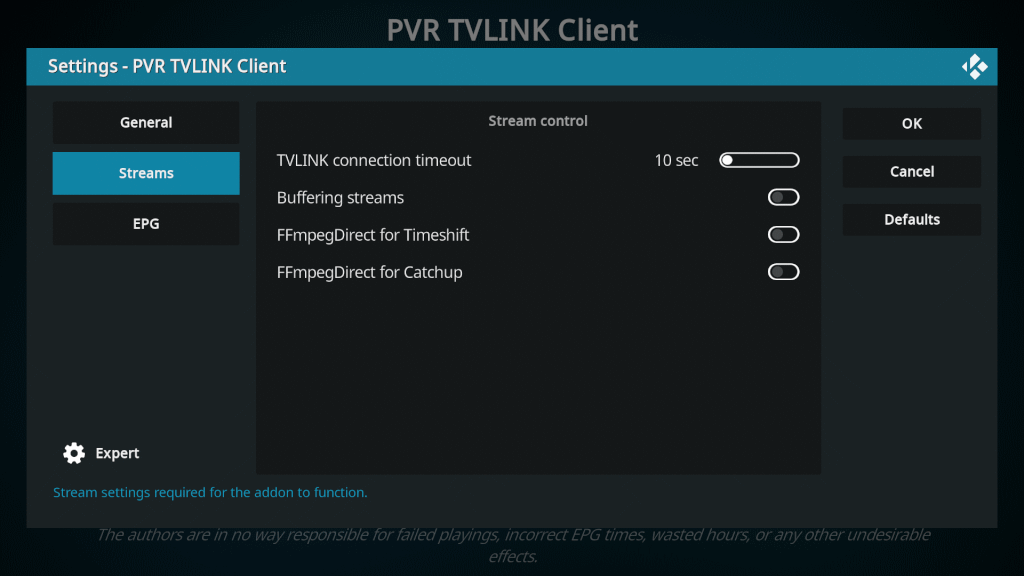
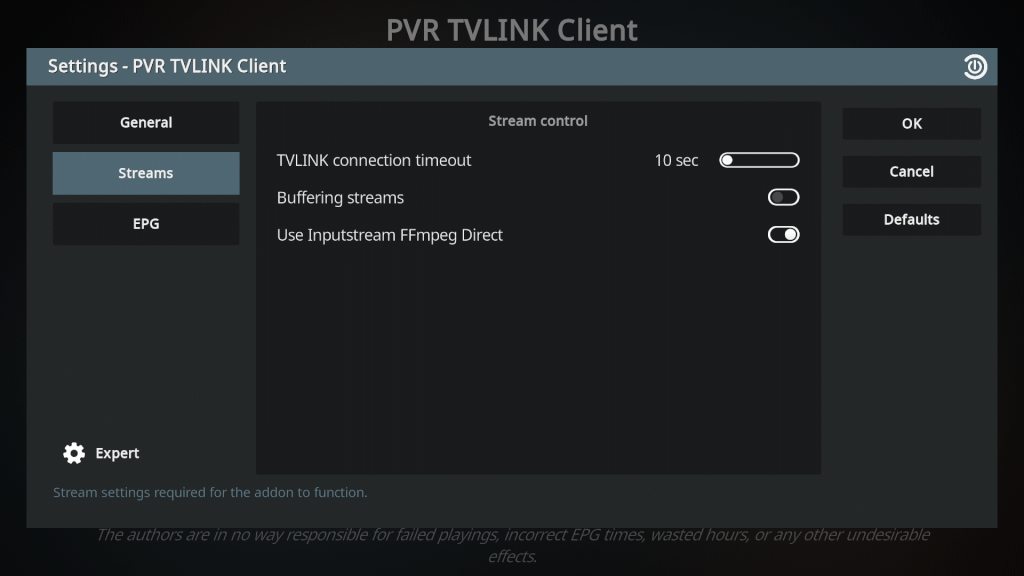
tvlink/docs/pvr-tvlink-client.md: update

diff --git a/content.uk/docs/tvlink/docs/pvr-tvlink-client.md b/content.uk/docs/tvlink/docs/pvr-tvlink-client.md
@@ -36,8 +36,6 @@ weight: 20
 + «TVLINK profile» – профіль користувача на сервері «TVLINK». Якщо не вказано, використовується основний профіль (main).
 + «Auth. Token» – токен авторизації, якщо потрібен.
 
-+ «FFmpeg playlist» – увімкніть, якщо ви хочете отримувати трансляції, які оброблятимуться ffmpeg-модулем «TVLINK».
-
 ### «Streams»
 
 <p align="center">
@@ -48,13 +46,11 @@ weight: 20
 
 + «Buffering streams» – якщо активовано, клієнт буде додатково буферизувати потоки (засобами Kodi).
 
-+ «FFmpegDirect for Timeshift» – вмикає функцію Timeshift через доповнення «Inputstream FFmpeg Direct».
-
-+ «FFmpegDirect for Catchup» – вмикає функцію Catchup через доповнення «Inputstream FFmpeg Direct».
++ «Use Inputstream FFmpeg Direct» – увімкнення цього параметра активує функції Timeshift та Catchup за допомогою доповнення «Inputstream FFmpeg Direct».
 
 {{% hint info %}}
-Дві останні опції («FFmpegDirect for ...») працюватимуть лише за умови, що ви активуєте доповнення «Inputstream FFmpeg Direct».
-В іншому випадку клієнт їх ігноруватиме.
+Ця остання опція («Use Inputstream FFmpeg Direct») працюватиме лише за умови, що ви активуєте доповнення «Inputstream FFmpeg Direct».
+В іншому випадку клієнт ігноруватиме ці функції.
 
 Доповнення «Inputstream FFmpeg Direct» спеціально змінено для роботи з «TVLINK» і вбудовано в систему.
 Якщо ви оновите його на оригінальну версію, воно втратить свою функціональність щодо «TVLINK».
@@ -71,18 +67,10 @@ weight: 20
 Ці функції дозволяють перемотувати прямий ефір назад (а потім і вперед), якщо ваш IPTV-провайдер надає послугу «IPTV-архіви».
 
 + «TimeShift» — це перемотування безпосередньо під час перегляду телеканалу. Наприклад, ви запустили канал, де фільм уже йде 30 хвилин.
-Ви натискаєте кнопку «вліво» до потрібного моменту та дивитесь фільм спочатку.
+Ви натискаєте кнопку «вниз» до потрібного моменту та дивитесь фільм спочатку.
 
 + «Catchup» — це запуск телепередачі (яка вже минула) з «EPG».
 
-На практиці, «TimeShift» та «Catchup» також відрізняються тим, у якому режимі працюватиме плеєр «Kodi».
-
-+ «TimeShift» — плеєр працює в режимі ТБ. Це означає, що плеєр не змінює свою функціональність ТБ (ви запустили канал і перемотали назад).
-Ви можете, наприклад, викликати список каналів кнопкою «вліво» та EPG кнопкою «вправо». Кнопки «вгору/вниз» працюватимуть як перемотування.
-
-+ «Catchup» — плеєр працює в режимі VOD (відео на запит). Це означає, що плеєр поводиться так, ніби ви запустили звичайне відео (ви натискаєте кнопку «Play programme» в EPG).
-Кнопки «вліво/вправо/вгору/вниз» працюють як перемотування. Вони відрізняються лише інтервалом перемотування.
-
 {{% hint info %}}
-«TimeShift» працює тільки тоді, коли увімкнена опція «FFmpegDirect for Timeshift». Для роботи IPTV-архівів (Catchup) опція «FFmpegDirect for Catchup» не є обов'язковою.
+«TimeShift» працює тільки тоді, коли увімкнена опція «Use Inputstream FFmpeg Direct». Для роботи IPTV-архівів (Catchup) опція «Use Inputstream FFmpeg Direct» не є обов'язковою.
 {{% /hint %}}

diff --git a/content.en/docs/tvlink/docs/pvr-tvlink-client.md b/content.en/docs/tvlink/docs/pvr-tvlink-client.md
@@ -36,8 +36,6 @@ A modified version of «Kodi» is required for «PVR TVLINK Client» to work; it
 + «TVLINK profile» – the user profile on the «TVLINK» server. If not specified, the main profile (main) is used.
 + «Auth. Token» – the authorization token, if required.
 
-+ «FFmpeg playlist» – enable if you want to receive broadcasts that will be processed by the ffmpeg module of «TVLINK».
-
 ### «Streams»
 
 <p align="center">
@@ -48,12 +46,11 @@ A modified version of «Kodi» is required for «PVR TVLINK Client» to work; it
 
 + «Buffering streams» – if activated, the client will additionally buffer streams (using Kodi's capabilities).
 
-+ «FFmpegDirect for Timeshift» – enables the Timeshift function via the «Inputstream FFmpeg Direct» addon.
-
-+ «FFmpegDirect for Catchup» – enables the Catchup function via the «Inputstream FFmpeg Direct» addon.
++ «Use Inputstream FFmpeg Direct» – enabling this parameter activates the Timeshift and Catchup functionalities using the «Inputstream FFmpeg Direct» add-on.
 
 {{% hint info %}}
-The last two options ("FFmpegDirect for ...") will only work if you activate the "Inputstream FFmpeg Direct" add-on. Otherwise, the client will ignore them.
+This last option («Use Inputstream FFmpeg Direct») will only work provided that you activate the «Inputstream FFmpeg Direct» add-on.
+Otherwise, the client will ignore these features.
 
 The "Inputstream FFmpeg Direct" add-on has been specifically modified to work with "TVLINK" and is embedded in the system.
 If you update it to the original version, it will lose its functionality regarding "TVLINK".
@@ -70,18 +67,10 @@ All other settings are the same as in the "PVR IPTV Simple" client.
 These functions allow you to rewind (and then fast-forward) live broadcasts if your IPTV provider offers the "IPTV archives" service.
 
 + «TimeShift» is rewinding directly while you are watching a TV channel. For example, you started a channel where a movie has already been playing for 30 minutes.
-You press the "left" button to the desired moment and watch the movie from the beginning.
+You press the "down" button to the desired moment and watch the movie from the beginning.
 
 + «Catchup» is when you launch a TV program (that has already aired) from the "EPG".
 
-In practice, «TimeShift» and «Catchup» also differ in the mode in which the "Kodi" player will operate.
-
-+ «TimeShift» — the player operates in TV mode. This means that the player does not change its TV functionality (you started a channel and rewound).
-For example, you can call up the channel list with the "left" button and the EPG with the "right" button. The "up/down" buttons will function as rewind/fast-forward.
-
-+ «Catchup» — the player operates in VOD (Video On Demand) mode. This means that the player behaves as if you launched a regular video (you press the "Play programme" button in the EPG).
-The "left/right/up/down" buttons work as rewind/fast-forward. They differ only in the rewinding interval.
-
 {{% hint info %}}
-«TimeShift» only works when the "FFmpegDirect for Timeshift" option is enabled. For IPTV archives (Catchup) to work, the "FFmpegDirect for Catchup" option is not mandatory.
+«TimeShift» only works when the "Use Inputstream FFmpeg Direct" option is enabled. For IPTV archives (Catchup) to work, the "Use Inputstream FFmpeg Direct" option is not mandatory.
 {{% /hint %}}

diff --git a/content.uk/docs/tvlink/docs/overview.md b/content.uk/docs/tvlink/docs/overview.md
@@ -59,4 +59,4 @@ weight: 10
 + x86-64
 + aarch64
 
-Програма не потребує багато ресурсів. Наприклад, при обслуговуванні двох клієнтів у середньому займає 70 МБ оперативної пам’яті.
+Програма не потребує багато ресурсів. При обслуговуванні двох клієнтів вона в середньому займає від 80 до 160 МБ оперативної пам'яті, залежно від налаштувань.

diff --git a/content.en/docs/tvlink/docs/overview.md b/content.en/docs/tvlink/docs/overview.md
@@ -59,4 +59,4 @@ This way, you will disable geolocation checking when the program starts.
 + x86-64
 + aarch64
 
-The program does not require many resources. For example, when serving two clients, it averages 70 MB of RAM usage.
+The program does not require many resources. When serving two clients, it occupies an average of 80 to 160 MB of RAM, depending on the settings.
